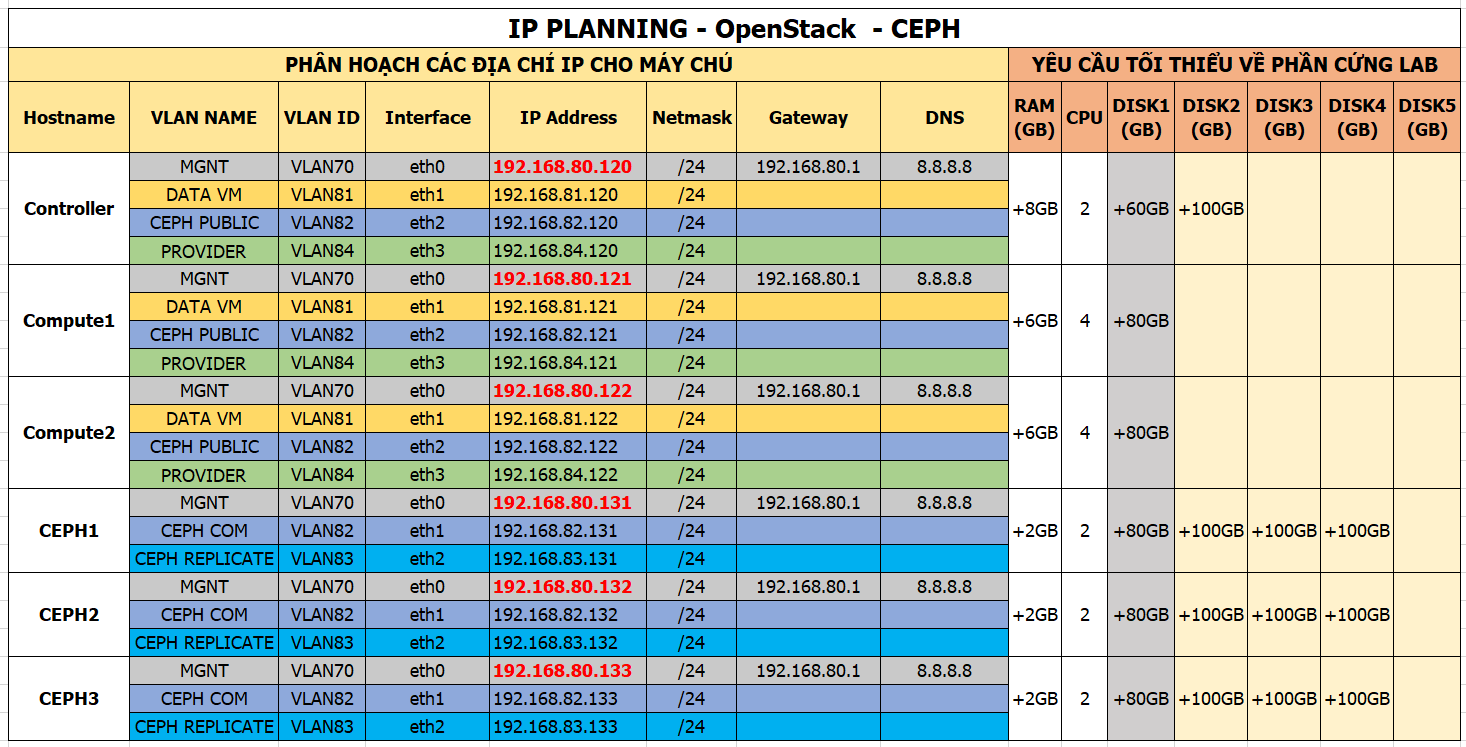
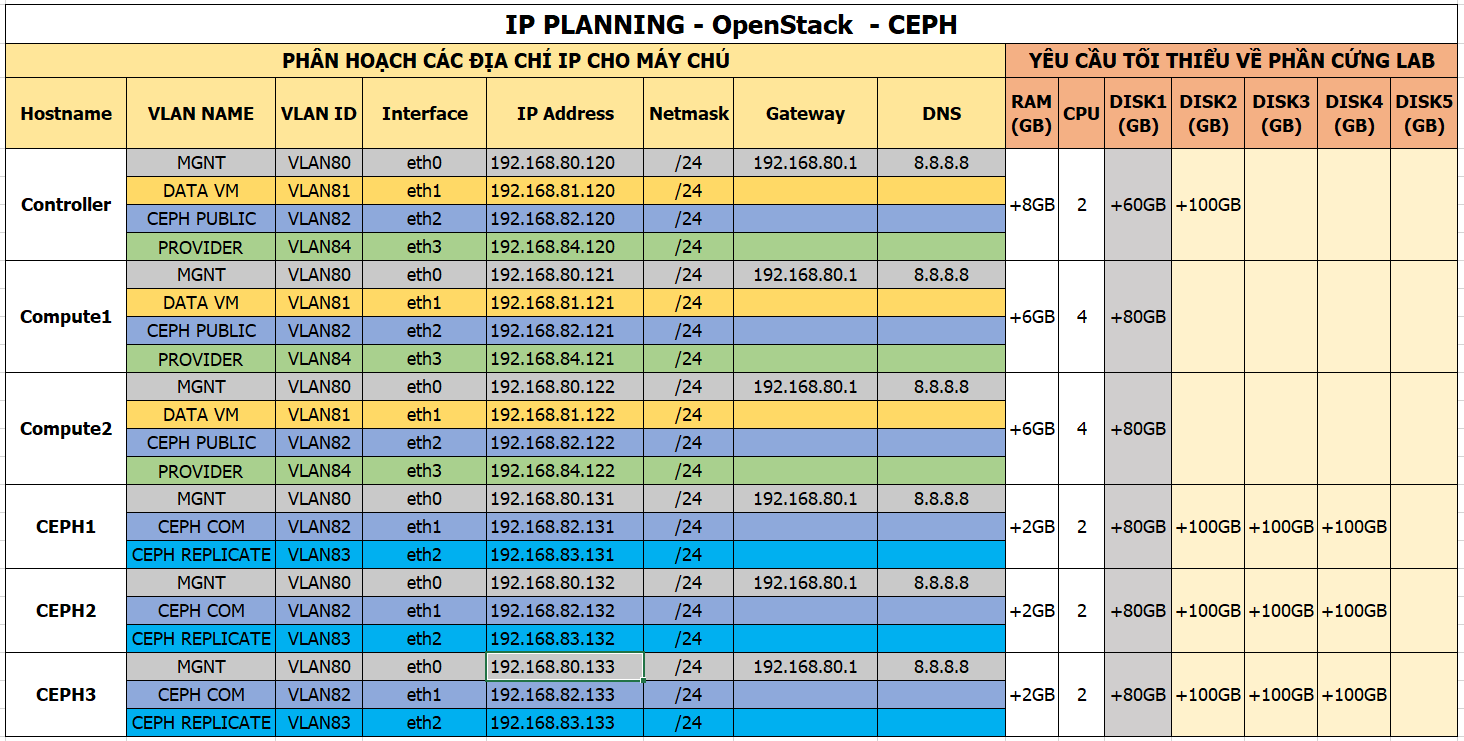
Cap nhat ip planning

diff --git a/docs/openstack-queens-CentOS7-scripts.md b/docs/openstack-queens-CentOS7-scripts.md
@@ -1,14 +1,14 @@
-#### Hướng dẫn thực thi script cài đặt OpenStack Rocky không có HA trên CentOS 7
+# Hướng dẫn thực thi script cài đặt OpenStack Queen không có HA trên CentOS 7
 
-### A. MÔI TRƯỜNG LAB
+## A. MÔI TRƯỜNG LAB
 - Giả lập trên VMware Workstatios, hoặc ESX hoặc Virtualbox hoặc KVM hoặc máy vật lý.
 - Centos 7.3 Server 64 bit - 1611
 
-### B. MÔ HÌNH
+## B. MÔ HÌNH
 
 ![noha_openstack_topology.png](/images/noha_openstack_queen_topology.png)
 
-### C. IP PLANNING
+## C. IP PLANNING
 
 ![noha_ip_planning.png](/images/noha_openstack_queen_ip_planning.png)
 
